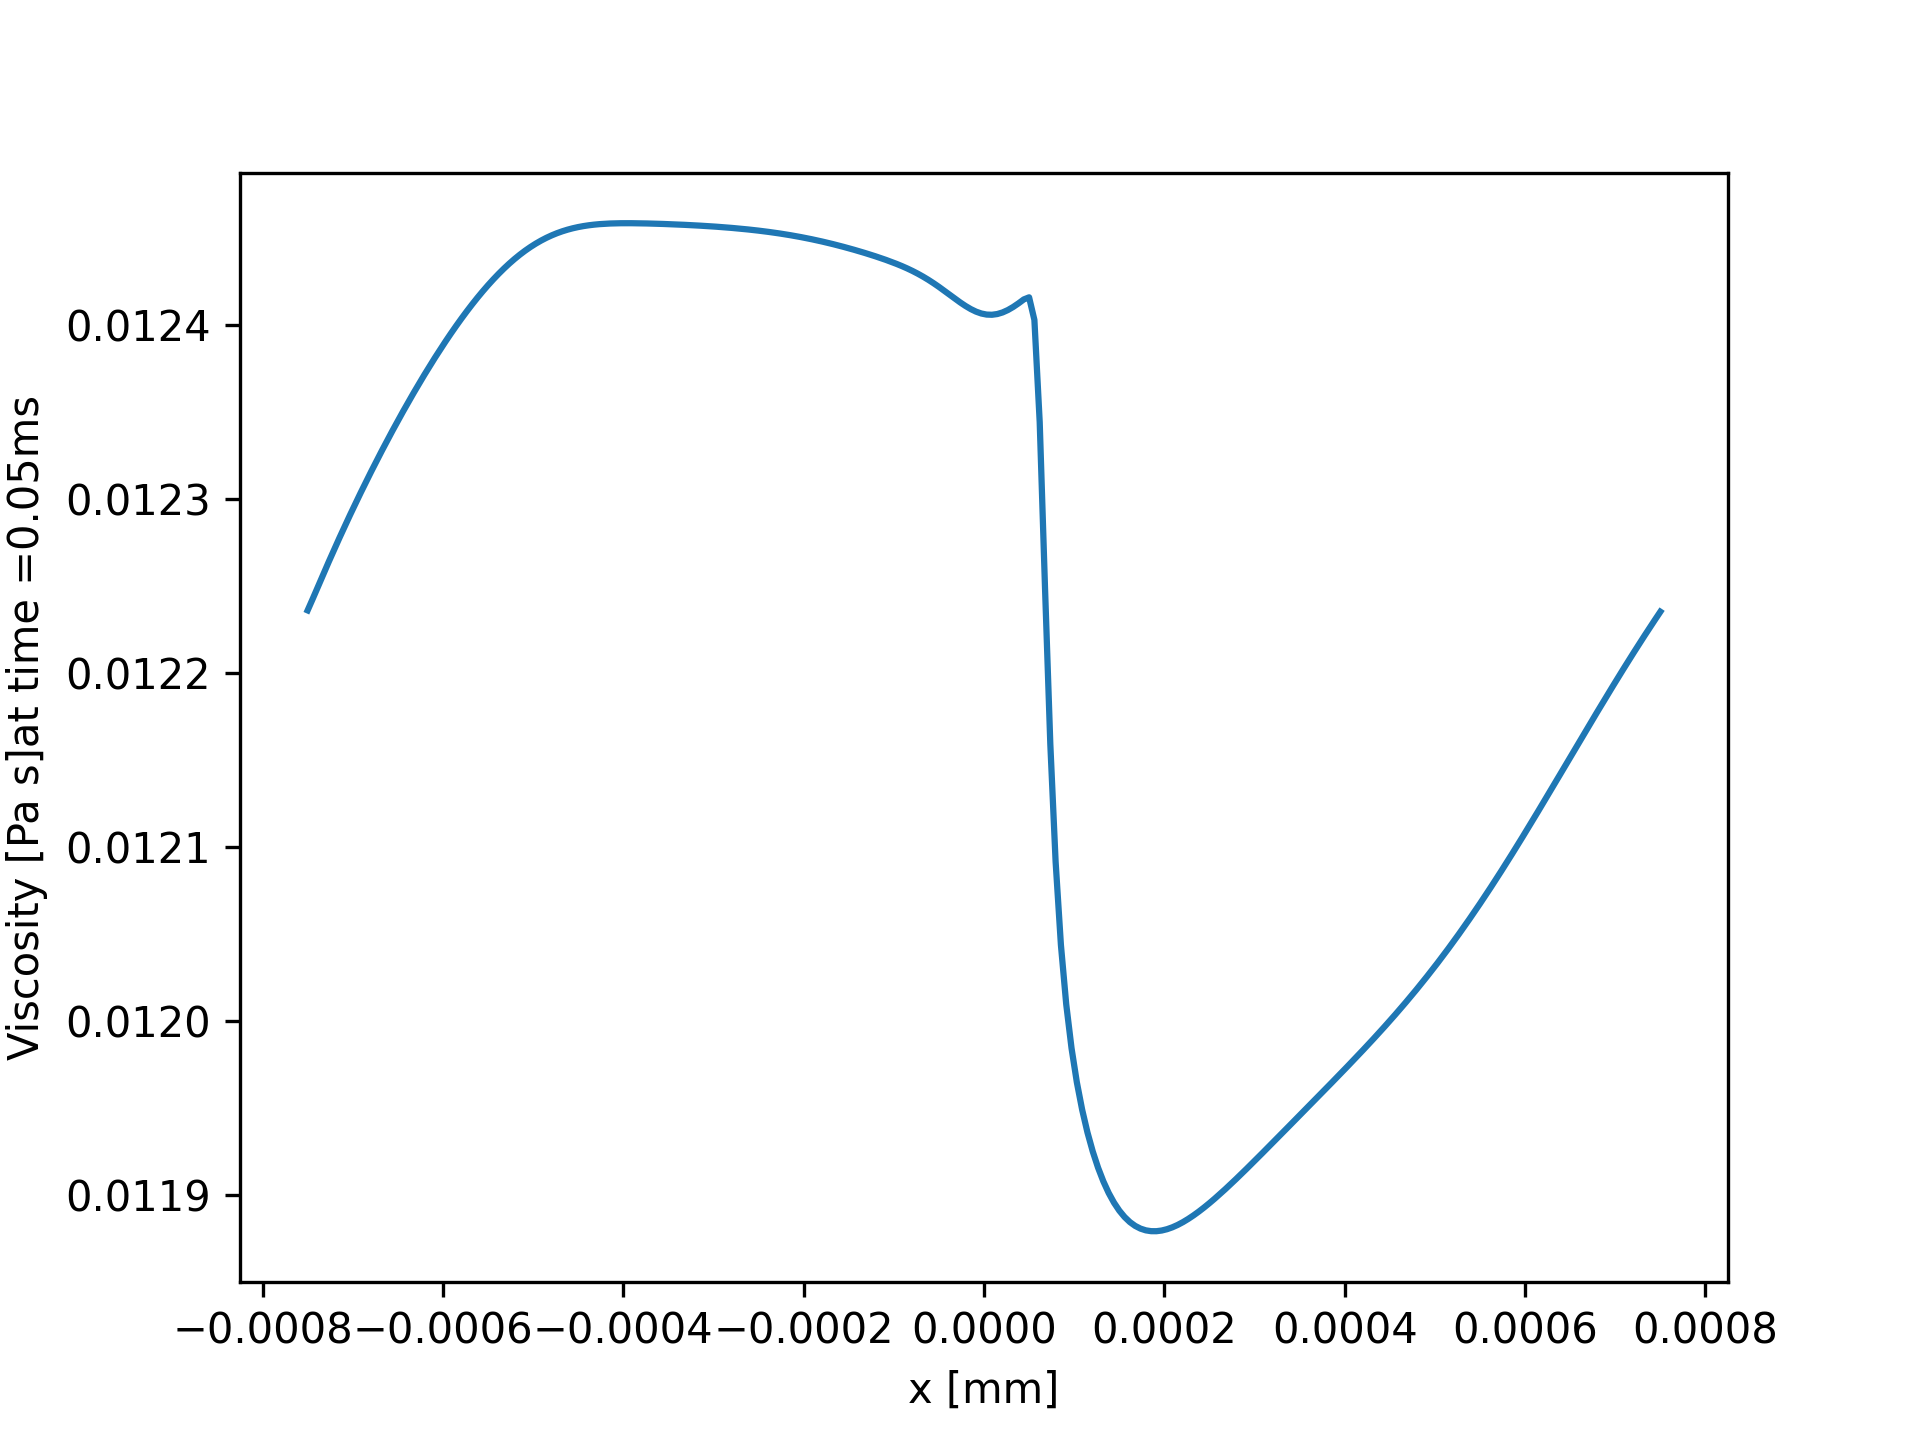
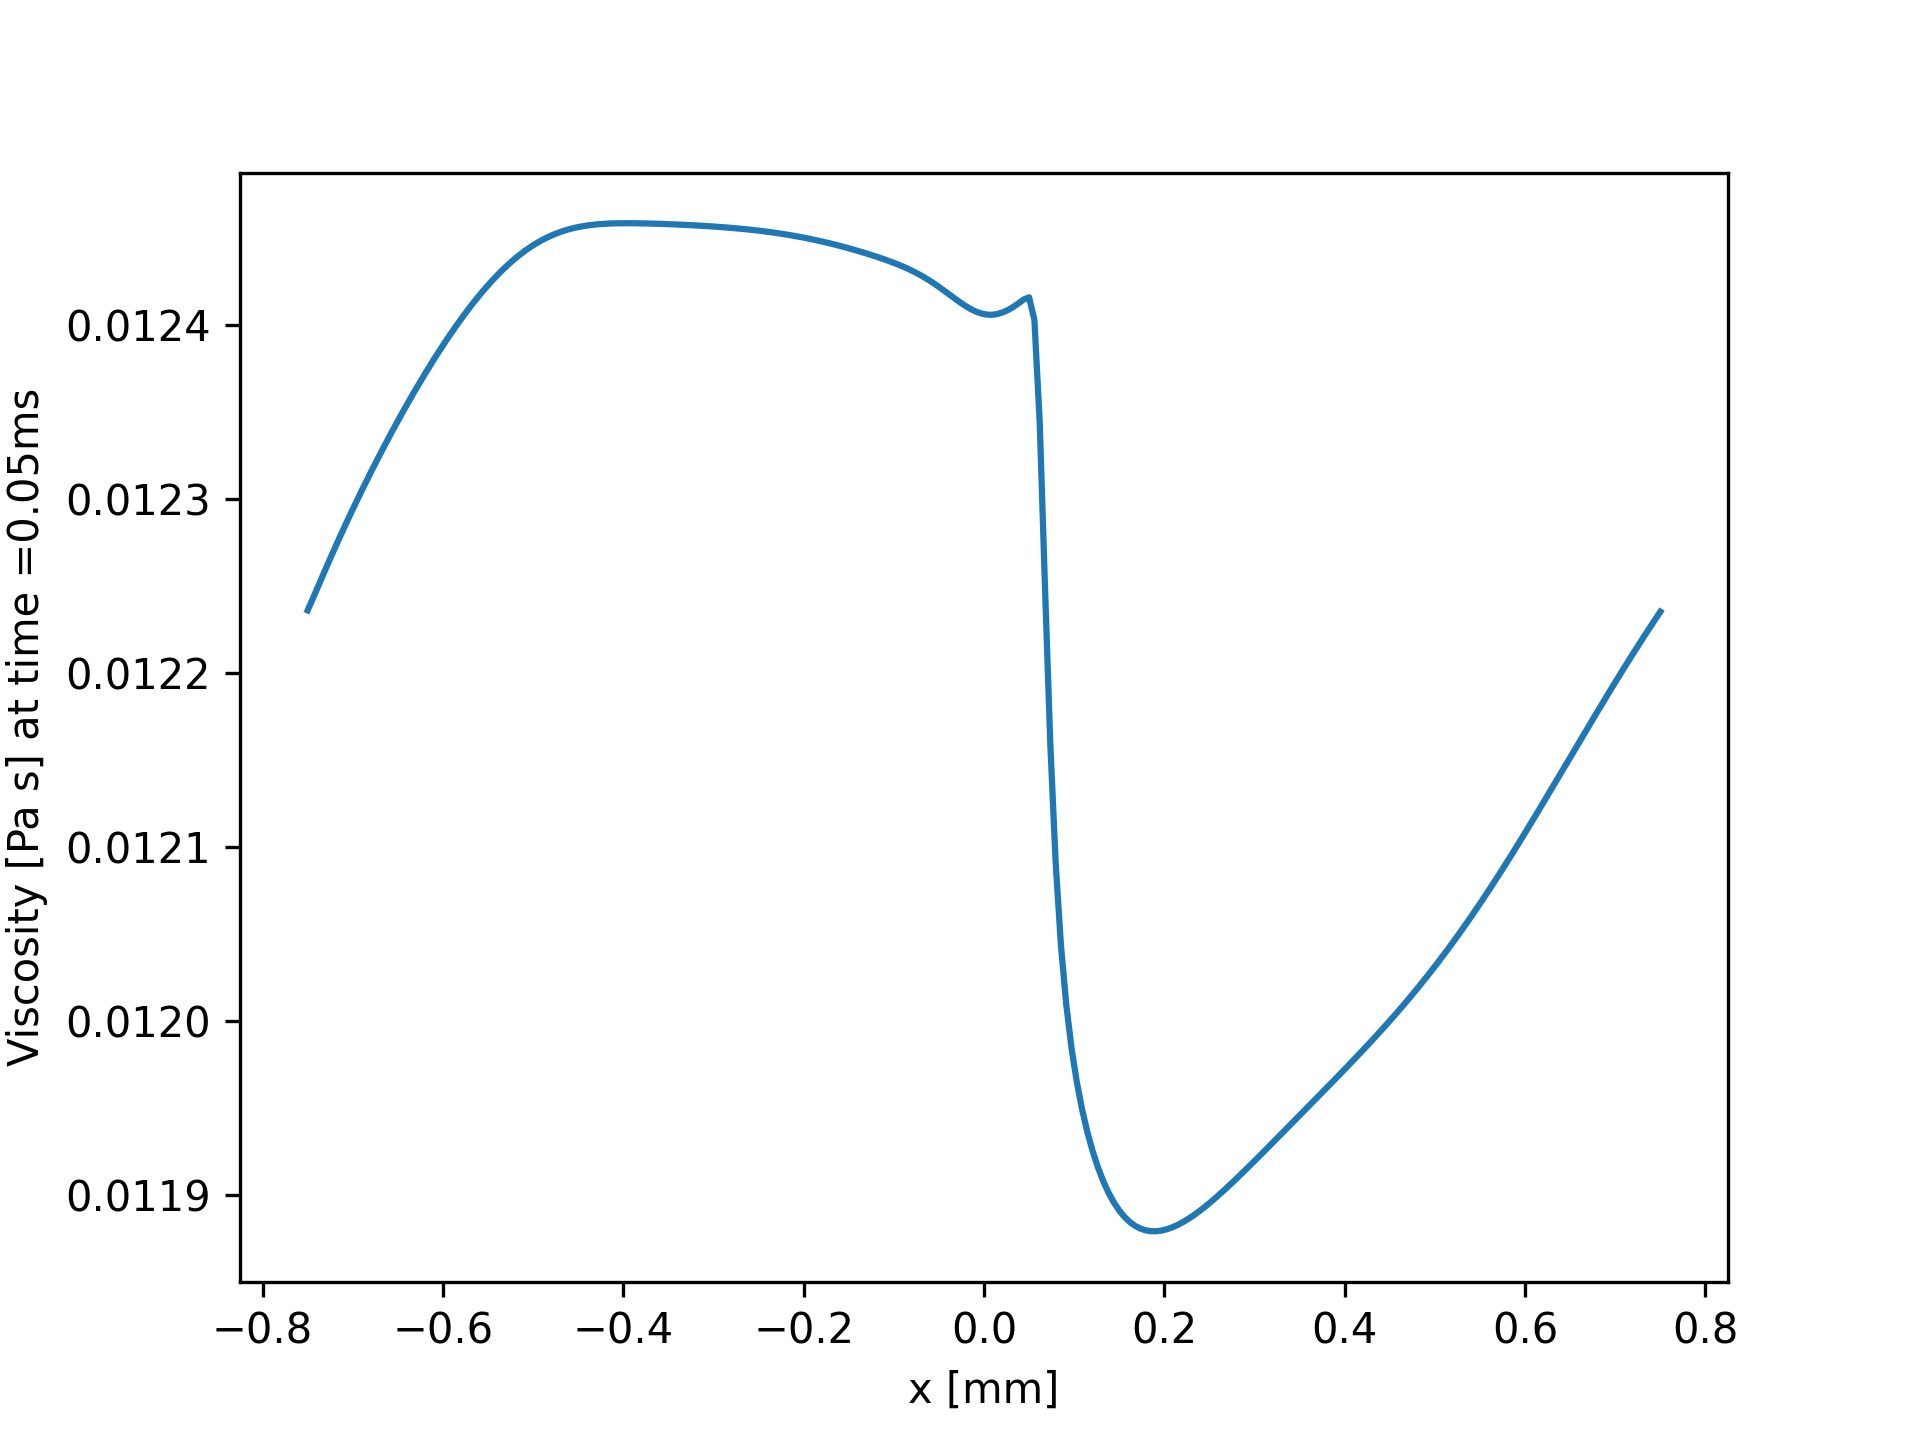
postprocessing figuren

Changed region(s): [[0.0938, 0.9062, 0.9375, 0.9375], [0.0, 0.2812, 0.0312, 0.75]]

diff --git a/PostProcessing.py b/PostProcessing.py
@@ -86,7 +86,7 @@ for time in range(1,Time.nt): # [100]:#
     Data=IO.ReadData(FileName)
     StateVector[time].h0=float(Data['State']['h0']) # ok
     # print("Hersey =", Data['State']['Hersey'])
-    StateVector[time].Hersey=Data['State']['Hersey'] # ok
+    # StateVector[time].Hersey=Data['State']['Hersey'] # ok
     StateVector[time].Lambda=float(Data['State']['Lambda']) # ok
     StateVector[time].HydrodynamicLoad=float(Data['State']['HydrodynamicLoad']) # ok
     StateVector[time].ViscousFriction=float(Data['State']['ViscousFriction'])   # ok
@@ -100,6 +100,9 @@ for time in range(1,Time.nt): # [100]:#
     StateVector[time].Viscosity=Data['State']['Viscosity'] # ok
     StateVector[time].VapourVolumeFraction=Data['State']['VapourVolumeFraction']
     StateVector[time].Density=Data['State']['Density']
+
+    StateVector[time].Hersey = abs(Ops.SlidingVelocity[time]) * StateVector[time].Viscosity / ( StateVector[time].HydrodynamicLoad + StateVector[time].AsperityLoad)
+
     
     StateVector[time].h= Data['State']['h'] # ok
     StateVector[time].Pressure=Data['State']['Pressure'] # ok
@@ -114,17 +117,21 @@ for time in range(1,Time.nt): # [100]:#
     
 
 """Post-Processing"""
+P_hydro = np.zeros(Time.nt - 1)
+P_asp = np.zeros(Time.nt - 1)
+for time in range(Time.nt - 1):
+    P_hydro[time] = StateVector[time].HydrodynamicLoad
+    P_asp[time] = StateVector[time].AsperityLoad
+plt.plot(P_hydro)
+plt.plot(P_asp)
+plt.plot(P_hydro+P_asp)
+# plt.show()
+plt.close()
 
-
-interesting_timestamps = np.array([1, 94, 250, 500, 563, 999])
+interesting_timestamps = np.array([1, 94, 500, 563, 999]) #250, 
 
 ## Dimensionless film thickness as function of crank angle
 
-# for time in range(Time.nt - 1):
-#     if time % 100 == 1:
-#         # print("Hersey =", StateVector[time].Hersey)
-#         plt.plot(Grid.x, StateVector[time].Hersey)
-#         plt.show()
 
 Lambda_values = np.zeros(Time.nt - 1)
 Hersey_values = np.zeros(Time.nt - 1)
@@ -132,18 +139,32 @@ COF_values = np.zeros(Time.nt-1)
 
 for time in range(Time.nt - 1):
     Lambda_values[time] = StateVector[time].Lambda
-    Hersey_values[time] = abs(np.mean(StateVector[time].Hersey))
+    Hersey_values[time] = (abs(np.mean(StateVector[time].Hersey)))
     COF_values[time] = abs(StateVector[time].COF)
 
 plt.plot(Ops.CranckAngle[1:], Lambda_values, 'bo')
-plt.xlabel('Crank angle [rad]')
-plt.ylabel('Dimensionless film thickness [-]')
-plt.savefig('PostProcessing/Film_thickness.png',dpi=300)
+plt.xlabel('Crank angle $\psi$ [rad]')
+plt.ylabel('$\Lambda$ [-]')
+plt.hlines([1, 2.5],-2,15,'k','--', linewidth=.6)
+plt.xlim([-.5, 13])
+# plt.savefig('PostProcessing/Film_thickness.png',dpi=300)
 # plt.show()
 plt.close()
 
+## Multicolor filmthickness
+gradient = np.linspace(0,1,len(Ops.CranckAngle[1:]))
+for i in range(len(Lambda_values)):
+    plt.plot(Ops.CranckAngle[i+1],Lambda_values[i],'o',color=(.47,gradient[i],gradient[i]),markersize=3)
+plt.xlabel('Crank angle $\psi$ [rad]')
+plt.ylabel('$\Lambda$ [-]')
+plt.hlines([1, 2.5],-2,15,'k','--', linewidth=.6)
+plt.xlim([-.5, 13])
+plt.savefig('PostProcessing/Film_thickness.png',dpi=300)
+plt.show()
+plt.close()
 
-## Stribeck curve
+
+# ## Stribeck curve
 
 
 
@@ -152,6 +173,16 @@ plt.xlabel('Hersey number [-]')
 plt.ylabel('Coefficient of Friction [-]')
 plt.savefig('PostProcessing/Stribeck_curve.png',dpi=300)
 # plt.show()
+plt.close()
+
+## Multi color Stribeck
+for i in range(len(COF_values)):
+    plt.plot(Hersey_values[i]*10**4,COF_values[i],'o',color=(.47,gradient[i],gradient[i]),markersize=3)
+plt.xlabel('Hersey number x$ 10^4$ [-]')
+plt.ylabel('Coefficient of Friction [-]')
+# plt.xscale('log')
+plt.savefig('PostProcessing/Stribeck_curve.png',dpi=300)
+plt.show()
 plt.close()
 
 
@@ -165,138 +196,142 @@ plt.close()
 
 
 
-## Characteristic pressure & temperature fields at interesting and relevant locations
+# ## Characteristic pressure & temperature fields at interesting and relevant locations
 
-for time in interesting_timestamps:
+# for time in interesting_timestamps:
     
-    vis.Report_PT(Grid, StateVector[time], time=time) # plt.show() has to be uncommented in VisualLib --> kan ook gwn hier
-    figname="PostProcessing/PT@Time_"+"{0:.2f}".format(round(Time.t[time]*1000,5))+"ms.png" 
-    plt.savefig(figname,dpi=300)
-    # plt.show()
-    plt.close()
+#     vis.Report_PT(Grid, StateVector[time], time=time) # plt.show() has to be uncommented in VisualLib --> kan ook gwn hier
+#     figname="PostProcessing/PT@Time_"+"{0:.2f}".format(round(Time.t[time]*1000,5))+"ms.png" 
+#     plt.savefig(figname,dpi=300)
+#     # plt.show()
+#     plt.close()
 
 
-### Vapour volume fraction, viscosity, Density at relavant locations
-# interesting_timestamps = [100]
-for time in interesting_timestamps:
-    plt.plot(Grid.x,StateVector[time].VapourVolumeFraction)
-    plt.ylabel(chr(945) + ' [-]'+'at time =' + str(time*5/100) + 'ms')
-    plt.xlabel('x [mm]')
-    figname="PostProcessing/alpha@Time_"+"{0:.2f}".format(round(Time.t[time]*1000,5))+"ms.png" 
-    plt.savefig(figname,dpi=300)
-    # plt.show()
-    plt.close()
+# ### Vapour volume fraction, viscosity, Density at relavant locations
+# # interesting_timestamps = [100]
+# for time in interesting_timestamps:
+#     plt.plot(Grid.x*1000,StateVector[time].VapourVolumeFraction)
+#     plt.ylabel(chr(945) + ' [-]'+' at time =' + str(time*5/100) + 'ms')
+#     plt.xlabel('x [mm]')
+#     figname="PostProcessing/alpha@Time_"+"{0:.2f}".format(round(Time.t[time]*1000,5))+"ms.png" 
+#     plt.savefig(figname,dpi=300)
+#     # plt.show()
+#     plt.close()
 
 
-    plt.plot(Grid.x,StateVector[time].Density)
-    plt.ylabel('Density [kg/m³]'+'at time =' + str(time*5/100) + 'ms')
-    plt.xlabel('x [mm]')
-    figname="PostProcessing/rho@Time_"+"{0:.2f}".format(round(Time.t[time]*1000,5))+"ms.png" 
-    plt.savefig(figname,dpi=300)
-    # plt.show()
-    plt.close()
+#     plt.plot(Grid.x*1000,StateVector[time].Density)
+#     plt.ylabel('Density [kg/m³]'+' at time =' + str(time*5/100) + 'ms')
+#     plt.xlabel('x [mm]')
+#     figname="PostProcessing/rho@Time_"+"{0:.2f}".format(round(Time.t[time]*1000,5))+"ms.png" 
+#     plt.savefig(figname,dpi=300)
+#     # plt.show()
+#     plt.close()
 
 
-    plt.plot(Grid.x,StateVector[time].Viscosity)
-    plt.ylabel('Viscosity [Pa s]'+'at time =' + str(time*5/100) + 'ms')
-    plt.xlabel('x [mm]')
-    figname="PostProcessing/µ@Time_"+"{0:.2f}".format(round(Time.t[time]*1000,5))+"ms.png" 
-    plt.savefig(figname,dpi=300)
-    # plt.show()
-    plt.close()
+#     plt.plot(Grid.x*1000,StateVector[time].Viscosity)
+#     plt.ylabel('Viscosity [Pa s]'+' at time =' + str(time*5/100) + 'ms')
+#     plt.xlabel('x [mm]')
+#     figname="PostProcessing/µ@Time_"+"{0:.2f}".format(round(Time.t[time]*1000,5))+"ms.png" 
+#     plt.savefig(figname,dpi=300)
+#     # plt.show()
+#     plt.close()
 
     
 
 
 
 
-## 2D vectorplot of flow velocity at relevant locations
+# ## 2D vectorplot of flow velocity at relevant locations
 
-    ## To be done:  calculate time derivative of h0 for v2 (v1=0)
-    ##              implement formulas from slide 17 in Hydrodyn Theory slides
+#     ## To be done:  calculate time derivative of h0 for v2 (v1=0)
+#     ##              implement formulas from slide 17 in Hydrodyn Theory slides
 
-# interesting_timestamps = [100]
-for time in interesting_timestamps:
-    visc_x = StateVector[time].Viscosity
-    density = Mixture.Density(StateVector[time])
-    p = StateVector[time].Pressure
-    p_x = Discretization.DDXCentral @ p
-    DDX = Discretization.DDXCentral
-    p_y = 0.0
-    x_grid = Grid.x
-    z_n = Grid.Nx
-    h = StateVector[time].h
+# # interesting_timestamps = [100]
+# for time in interesting_timestamps:
+#     visc_x = StateVector[time].Viscosity
+#     density = Mixture.Density(StateVector[time])
+#     p = StateVector[time].Pressure
+#     p_x = Discretization.DDXCentral @ p
+#     DDX = Discretization.DDXCentral
+#     p_y = 0.0
+#     x_grid = Grid.x
+#     z_n = Grid.Nx
+#     h = StateVector[time].h
     
-    u1 = 0
-    u2 = Ops.SlidingVelocity[time] # or PistonVelocity ? idk
-    Nx = Grid.Nx
-    u_x = np.zeros((z_n, Nx))
-    u_z = np.zeros((z_n, Nx))
+#     u1 = 0
+#     u2 = Ops.SlidingVelocity[time] # or PistonVelocity ? idk
+#     Nx = Grid.Nx
+#     u_x = np.zeros((z_n, Nx))
+#     u_z = np.zeros((z_n, Nx))
 
-    z_grid = np.linspace(0.0, h[0], z_n)
+#     z_grid = np.linspace(0.0, h[0], z_n)
     
-    for x in range(Grid.Nx):
-        u_x[:, x] = np.array([1/visc_x[x] * p_x[x] * 1/2 * (z**2 - h[x] * z) if z < h[x] else 0 for z in z_grid])  # Poiseuille
-        u_x[:, x] += np.array([(u2 - u1) / h[x] * z + u1 if z < h[x] else 0 for z in z_grid])                      # Couette
-        # Note: list comprehension is used to get zero for points "inside" of the ring in the vector plot
+#     for x in range(Grid.Nx):
+#         u_x[:, x] = np.array([1/visc_x[x] * p_x[x] * 1/2 * (z**2 - h[x] * z) if z < h[x] else 0 for z in z_grid])  # Poiseuille
+#         u_x[:, x] += np.array([(u2 - u1) / h[x] * z + u1 if z < h[x] else 0 for z in z_grid])                      # Couette
+#         # Note: list comprehension is used to get zero for points "inside" of the ring in the vector plot
 
-        # u_z[:, x] = np.trapz(1/density[x] * DDX @ (density[x] * u_x[:, x]),z_grid)*10000
+#         # u_z[:, x] = np.trapz(1/density[x] * DDX @ (density[x] * u_x[:, x]),z_grid)*10000
 
-    ## Reduce amount of datapoint used to generate vectors. Note: plt.quiver wants the same amount of elements in X and Y!
-    skip = 10
-    skip1 = (slice(None, None, skip))
-    skip2 = (slice(None, None, skip), slice(None, None, skip))
+#     ## Reduce amount of datapoint used to generate vectors. Note: plt.quiver wants the same amount of elements in X and Y!
+#     skip = 10
+#     skip1 = (slice(None, None, skip))
+#     skip2 = (slice(None, None, skip), slice(None, None, skip))
 
-    ## Make grid for vectors
-    X, Z = np.meshgrid(x_grid[skip1], z_grid[skip1])
+#     ## Make grid for vectors
+#     X, Z = np.meshgrid(x_grid[skip1], z_grid[skip1])
 
-    X_l, Z_l = np.meshgrid((x_grid[:Nx//2])[skip1], (z_grid)[skip1])
-    X_r, Z_r = np.meshgrid((x_grid[Nx//2+1:])[skip1], (z_grid)[skip1])
+#     X_l, Z_l = np.meshgrid((x_grid[:Nx//2])[skip1], (z_grid)[skip1])
+#     X_r, Z_r = np.meshgrid((x_grid[Nx//2+1:])[skip1], (z_grid)[skip1])
 
 
-    ## Make vector plot
-    plt.quiver(X,Z,u_x[skip2],u_z[skip2],minlength=0,scale=350)
+#     ## Make vector plot
+#     plt.quiver(X,Z,u_x[skip2],u_z[skip2],minlength=0,scale=350)
 
-    ### (Un)comment following two line to ensure that no vector crosses the ring.
-    # plt.quiver(X_l,Z_l,(u_x[:,:Nx//2])[skip2],(u_z[:,:Nx//2])[skip2],minlength=0,pivot='tip',scale=350)
-    # plt.quiver(X_r,Z_r,(u_x[:,Nx//2+1:])[skip2],(u_z[:,Nx//2+1:])[skip2],minlength=0,pivot='tail',scale=350)
+#     ### (Un)comment following two line to ensure that no vector crosses the ring.
+#     # plt.quiver(X_l,Z_l,(u_x[:,:Nx//2])[skip2],(u_z[:,:Nx//2])[skip2],minlength=0,pivot='tip',scale=350)
+#     # plt.quiver(X_r,Z_r,(u_x[:,Nx//2+1:])[skip2],(u_z[:,Nx//2+1:])[skip2],minlength=0,pivot='tail',scale=350)
 
-    plt.plot(x_grid, StateVector[time].h)
-    figname="PostProcessing/Vectorplot@Time_"+"{0:.2f}".format(round(Time.t[time]*1000,5))+"ms.png" 
-    plt.savefig(figname,dpi=300)
-    # plt.show()
-    plt.close()
+#     plt.plot(x_grid*1000, StateVector[time].h*1000)
+#     figname="PostProcessing/Vectorplot@Time_"+"{0:.2f}".format(round(Time.t[time]*1000,5))+"ms.png" 
+#     plt.xlabel('x [mm]')
+#     plt.ylabel('z [mm]')
+#     plt.title('Vectorplot for t =' + str(time*5/100) + 'ms')
+#     plt.savefig(figname,dpi=300)
+#     # plt.show()
+#     plt.close()
 
             
 
 
-## Wear of Compression Ring and Wear at Cylinder liner after one combustion cycle
+# ## Wear of Compression Ring and Wear at Cylinder liner after one combustion cycle
 
-WearDepthRing_values = np.zeros(Time.nt - 1)
-WearDepthCylinder_values = np.zeros(len(interesting_timestamps))
+# WearDepthRing_values = np.zeros(Time.nt - 1)
+# WearDepthCylinder_values = np.zeros(len(interesting_timestamps))
 
-for time in range(Time.nt - 1):
-    WearDepthRing_values[time] = StateVector[time].WearDepthRing
+# for time in range(Time.nt - 1):
+#     WearDepthRing_values[time] = StateVector[time].WearDepthRing
 
-plt.plot(Ops.CranckAngle[1:], WearDepthRing_values, 'bo')
-plt.xlabel('Crank angle [rad]')
-# plt.plot(Time.t[1:], WearDepthRing_values, 'bo')
-# plt.xlabel('time [s]')
-plt.ylabel('Weardepth ring [mm]')
-plt.savefig('PostProcessing/WearDepth_ring.png',dpi=300)
-# plt.show()
-plt.close()
+# plt.plot(Ops.CranckAngle[1:], WearDepthRing_values, 'bo')
+# plt.xlabel('Crank angle [rad]')
+# # plt.plot(Time.t[1:], WearDepthRing_values, 'bo')
+# # plt.xlabel('time [s]')
+# plt.ylabel('Weardepth ring [mm]')
+# plt.savefig('PostProcessing/WearDepth_ring.png',dpi=300)
+# # plt.show()
+# plt.close()
 
 
-# for time in interesting_timestamps:
-time = 998 # We are only interested in wear after a full combustion cycle
-plt.plot(StateVector[time].WearLocationsCylinder*1000 - 95.5, StateVector[time].WearDepthCylinder, 'bo')
-plt.xlabel('Location on cylinder liner [mm]')
-plt.ylabel('Wear depth [m]')
-plt.savefig('PostProcessing/Wear_cylinder.png',dpi=300)    
-# plt.show()
-plt.close()
+# # for time in interesting_timestamps:
+# time = 998 # We are only interested in wear after a full combustion cycle
+# plt.plot(StateVector[time].WearLocationsCylinder*1000 - 95.5, StateVector[time].WearDepthCylinder, 'bo')
+# plt.xlabel('Location on cylinder liner [mm]')
+# plt.ylabel('Wear depth [m]')
+# plt.savefig('PostProcessing/Wear_cylinder.png',dpi=300)    
+# # plt.show()
+# plt.close()
 
+# print('Maximim wear depth on cylinder sleeve = ' + str(max(StateVector[time].WearDepthCylinder)))
 
 
 

diff --git a/VisualLib.py b/VisualLib.py
@@ -40,17 +40,21 @@ def Report_Ops(Time,Ops,time):
     
     f2, ax1 = plt.subplots()
     color = 'tab:blue'
-    ax1.set_xlabel('$t [s]$')
+    # ax1.set_xlabel('$t [s]$')
+    ax1.set_xlabel('$Crank angle [rad]$')
     ax1.set_ylabel('$U [m/s]$',color=color)
-    ax1.plot(Time.t,Ops.SlidingVelocity,'-',Time.t[time],Ops.SlidingVelocity[time],'ko', linewidth=1,color=color)
+    # ax1.plot(Time.t,Ops.SlidingVelocity,'-',Time.t[time],Ops.SlidingVelocity[time],'ko', linewidth=1,color=color)
+    ax1.plot(Ops.CranckAngle,Ops.SlidingVelocity,'-',Ops.CranckAngle[time],Ops.SlidingVelocity[time],'ko', linewidth=1,color=color)
+    plt.xlabel('Crank angle $\psi$ [rad]')
     ax1.tick_params(axis='y')
     ax2 = ax1.twinx()  # instantiate a second axes that shares the same x-axis
     color = 'tab:red'
     ax2.set_ylabel('$F [N/m]$',color=color)  # we already handled the x-label with ax1
-    ax2.plot(Time.t,Ops.CompressionRingLoad,'-',Time.t[time],Ops.CompressionRingLoad[time],'ko',linewidth=1,color=color)
+    # ax2.plot(Time.t,Ops.CompressionRingLoad,'-',Time.t[time],Ops.CompressionRingLoad[time],'ko',linewidth=1,color=color)
+    ax2.plot(Ops.CranckAngle,Ops.CompressionRingLoad,'-',Ops.CranckAngle[time],Ops.CompressionRingLoad[time],'ko',linewidth=1,color=color)
     ax2.tick_params(axis='y')
     f2.tight_layout()  # otherwise the right y-label is slightly clipped
-    ax1.vlines(time/100000*5,-15,15,'k','--', linewidth=.6)
+    ax1.vlines(Ops.CranckAngle[time],-15,15,'k','--', linewidth=.6)
     ax1.set_ylim([-15,15])
     # plt.show()
     return f2

diff --git a/zzzz_Test Data_acquisition.py b/zzzz_Test Data_acquisition.py
@@ -70,10 +70,10 @@ Time=Time(EndTime,TimeStep)
 time = 26.90
 FileName='Data/Time_'+str(time)+'ms.h5'
 Data=IO.ReadData(FileName)['State']
-print(Data['WearDepthCylinder'])
+# print(Data['WearDepthCylinder'])
 # print(round(Time.t[1]*1000,4))
-# for i in Data:
-#     print(i)
+for i in Data:
+    print(i)
 
 # greek_letterz=[chr(code) for code in range(945,970)]
 
